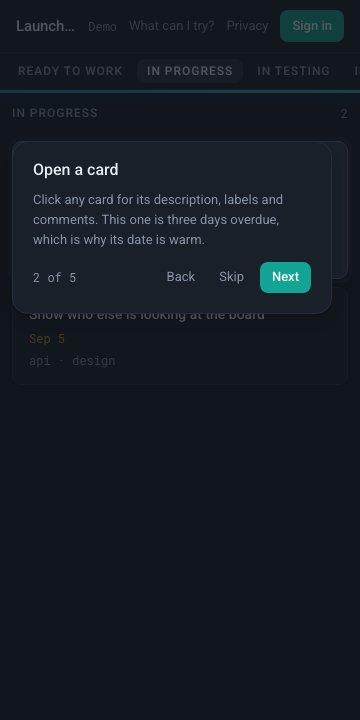
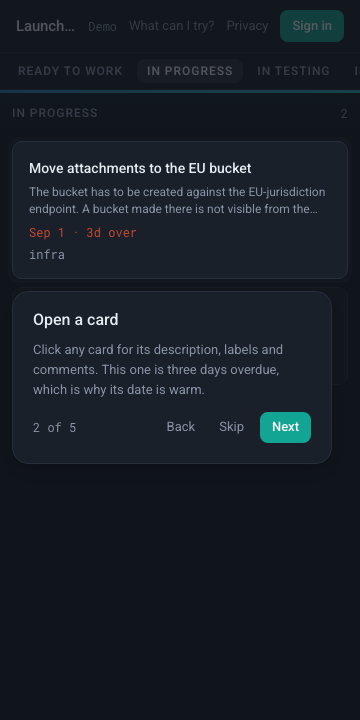
fix: keep the demo tour's step card off the element it lights
At 360px neither side of placeCard's left/right flip has room for the
320px card, so it collapsed to the left gutter — directly over the
target, hiding the spotlight it was supposed to explain. Found from the
tour-anchored-360-dark.png screenshot: the switcher scrolled to the right
column, but the card covered the card it was lighting.

placeCard now falls back to below the target when neither side fits, or
above when there's no room below, so the card never covers the element it
points at. Added a TDD-style e2e test for this next to the existing
360px test — written first and confirmed failing against the old
placeCard (spotlight/card overlap true), then passing once the fix
landed. Re-shot tour-anchored-360-dark.png to show the corrected layout.

Verified:
- E2E_PORT=3101 pnpm exec playwright test e2e/demo-tour.spec.ts:
  6 collected, 6 passed, EXIT=0.
- E2E_PORT=3101 pnpm exec playwright test e2e/demo.spec.ts:
  10 collected, 10 passed, EXIT=0 (untouched, still green).
- pnpm typecheck && pnpm lint && pnpm test: all EXIT=0 (lint's two
  pre-existing warnings in lib/board-state.ts are unrelated).

Claude-Session: https://claude.ai/code/session_019f3tMwFxYjTVKGSyM4GUPf

diff --git a/components/demo/demo-tour.tsx b/components/demo/demo-tour.tsx
@@ -91,13 +91,27 @@ function useTargetBox(selector: string | undefined, open: boolean): Box | null {
   return measured?.selector === selector ? measured.box : null;
 }
 
-// Beside the target, flipped to its left when the right would leave the
-// viewport, and clamped so the card is never partly off the bottom.
+// Beside the target where there is room, flipped to its left when the right
+// would leave the viewport. When neither side fits — a full-width column on a
+// phone is wider than the viewport minus the card — it goes below the target
+// instead, or above when there is no room below, so the card never covers the
+// thing it is pointing at.
 function placeCard(box: Box): { top: number; left: number } {
   const right = box.left + box.width + GAP;
   const fitsRight = right + CARD_W <= window.innerWidth - GAP;
+  const fitsLeft = box.left - GAP - CARD_W >= GAP;
+
+  if (!fitsRight && !fitsLeft) {
+    const below = box.top + box.height + GAP;
+    const above = box.top - GAP - CARD_H;
+    return {
+      top: below + CARD_H <= window.innerHeight - GAP ? below : Math.max(GAP, above),
+      left: Math.max(GAP, Math.min(box.left, window.innerWidth - CARD_W - GAP)),
+    };
+  }
+
   return {
-    left: fitsRight ? right : Math.max(GAP, box.left - GAP - CARD_W),
+    left: fitsRight ? right : box.left - GAP - CARD_W,
     top: Math.min(Math.max(GAP, box.top), Math.max(GAP, window.innerHeight - CARD_H)),
   };
 }

diff --git a/e2e/demo-tour.spec.ts b/e2e/demo-tour.spec.ts
@@ -67,6 +67,27 @@ test('scrolls a far target into view at 360px', async ({ page }) => {
   expect(box!.x + box!.width).toBeGreaterThan(0);
 });
 
+test('the step card never covers the element it points at', async ({ page }) => {
+  await page.setViewportSize({ width: 360, height: 720 });
+  await page.goto('/');
+  await page.getByRole('button', { name: 'What can I try?' }).click();
+  await page.getByRole('button', { name: 'Next' }).click();
+
+  const spotlight = page.locator('[aria-hidden][style*="box-shadow"]');
+  await expect(spotlight).toBeVisible();
+  const lit = await spotlight.boundingBox();
+  const card = await page.getByRole('dialog').boundingBox();
+
+  expect(lit).not.toBeNull();
+  expect(card).not.toBeNull();
+  const overlaps =
+    lit!.x < card!.x + card!.width &&
+    card!.x < lit!.x + lit!.width &&
+    lit!.y < card!.y + card!.height &&
+    card!.y < lit!.y + lit!.height;
+  expect(overlaps).toBe(false);
+});
+
 test('the board is interactive again after the tour closes', async ({ page }) => {
   await page.goto('/');
   await openTour(page);
